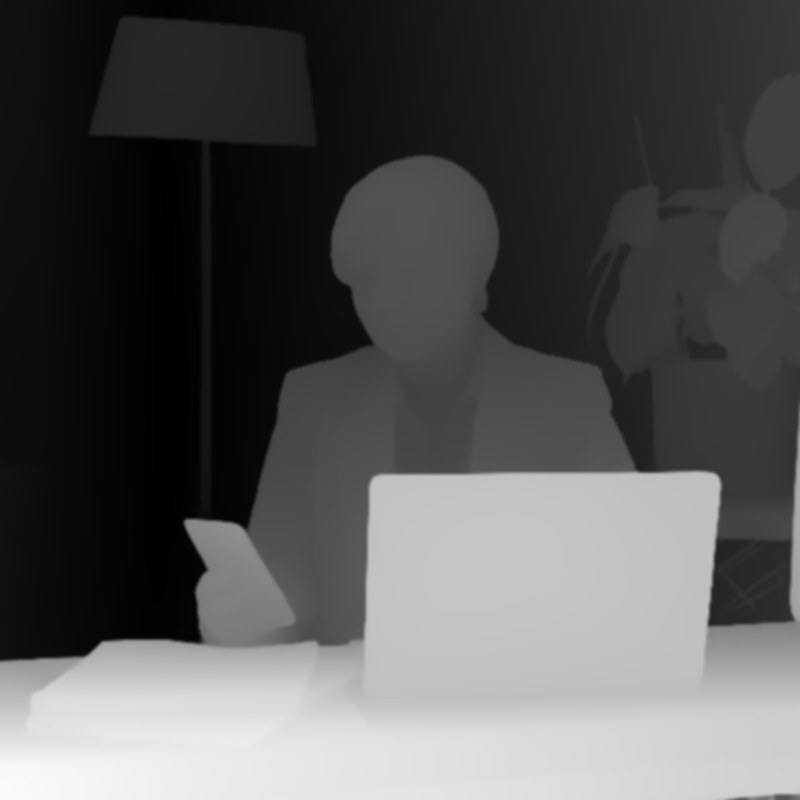
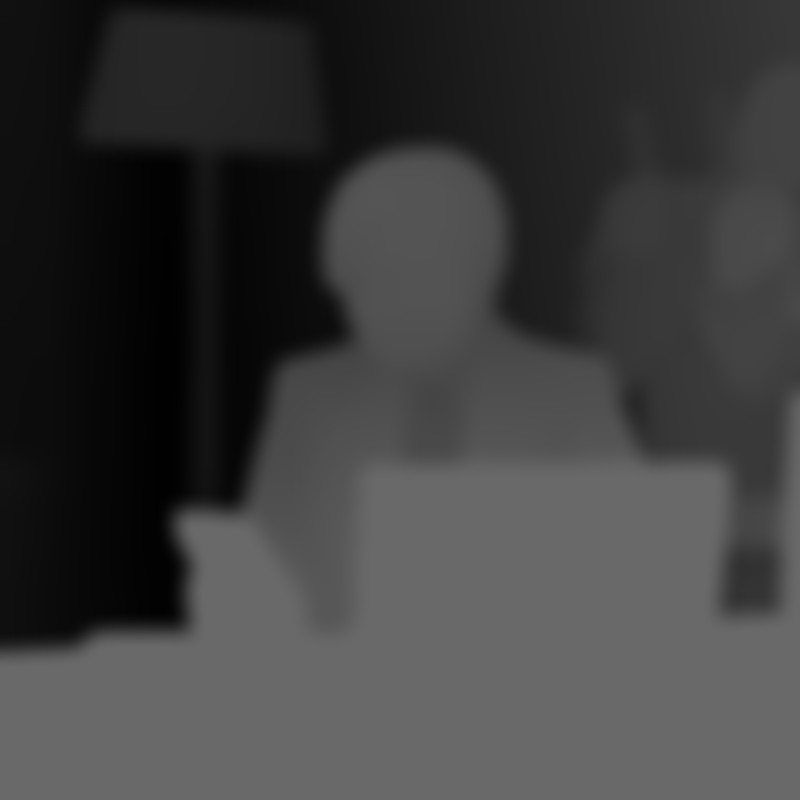
Мой путь, 3D-фото: без растяжений на лице и ноутбуке — Людмила неподвижна, смещается фон

diff --git a/story3d.js b/story3d.js
@@ -129,7 +129,7 @@ function depthPhoto(frame, opts) {
     const t = now / 1000;
     const ax = Math.sin(t * 0.33) * 0.7, ay = Math.sin(t * 0.47 + 1.3) * 0.45;   // сам по себе — медленная «восьмёрка»
     cx += (mx * 0.8 + ax - cx) * 0.045; cy += (my * 0.6 + ay - cy) * 0.045;
-    const ox = -cx * 0.042, oy = cy * 0.028, z = 1.08 + Math.sin(t * 0.22) * 0.014;
+    const ox = -cx * 0.05, oy = cy * 0.032, z = 1.08 + Math.sin(t * 0.22) * 0.014;
     mat.uniforms.uOff.value.set(ox, oy);
     mat.uniforms.uZoom.value = z;
     if (opts.onMove) opts.onMove(ox, oy, z);
@@ -149,7 +149,7 @@ function depthPhoto(frame, opts) {
     r.setPixelRatio(Math.min(window.devicePixelRatio || 1, 1.5));
     r.outputColorSpace = THREE.LinearSRGBColorSpace;            // цвета фото — как есть, без пересчёта
     const ld = new THREE.TextureLoader();
-    Promise.all([ld.loadAsync(img.currentSrc || img.src), ld.loadAsync('img/story/now-depth.jpg')]).then(([ti, td]) => {
+    Promise.all([ld.loadAsync(img.currentSrc || img.src), ld.loadAsync('img/story/now-depth.jpg?v=2')]).then(([ti, td]) => {
       [ti, td].forEach(t => { t.colorSpace = THREE.NoColorSpace; t.minFilter = THREE.LinearFilter; t.generateMipmaps = false; });
       scene = new THREE.Scene(); cam = new THREE.OrthographicCamera(-1, 1, 1, -1, 0, 1);
       mat = new THREE.ShaderMaterial({
@@ -162,7 +162,8 @@ function depthPhoto(frame, opts) {
             float fa = uRes.x / uRes.y;
             vec2 s = (fa > 1.0 ? vec2(1.0, 1.0 / fa) : vec2(fa, 1.0)) / uZoom;   // как object-fit: cover для квадратного фото
             vec2 base = (1.0 - s) * uPos + vUv * s, uv = base;
-            for (int i = 0; i < 3; i++) { float d = texture2D(uDep, uv).r; uv = base + uOff * (d - 0.42); }
+            float d = texture2D(uDep, base).r;
+            uv = base + uOff * (d - 0.37);   // Людмила и ноутбук (глубина ~0.37) стоят на месте — смещается фон за ними
             gl_FragColor = texture2D(uImg, clamp(uv, 0.001, 0.999));
           }`,
       });
@@ -361,7 +362,7 @@ async function init() {
   const nowFrame = q('.story__now-frame'), ghostNowEl = q('.story__ghost--now');
   if (!stacked) gsap.set(ghostNowEl, { yPercent: -50 });           // центр слова — в точке над растением
   const depth = depthPhoto(nowFrame, { reduce, pos: stacked ? [0.6, 0.3] : [0.5, 0.36], onMove: stacked ? null : (ox, oy, z) => {
-    const W = nowFrame.clientWidth, k = (0.8 - 0.42) * z;
+    const W = nowFrame.clientWidth, k = (0.6 - 0.37) * z;
     ghostNowEl.style.setProperty('--fx', (-ox * k * W * 0.35).toFixed(1) + 'px');  // вбок — чуть-чуть, чтобы край держал линию
     ghostNowEl.style.setProperty('--fy', (oy * k * W).toFixed(1) + 'px');
   } });

diff --git a/index.html b/index.html
@@ -325,6 +325,6 @@
 <script src="https://cdnjs.cloudflare.com/ajax/libs/gsap/3.12.5/ScrollTrigger.min.js"></script>
 <script src="https://unpkg.com/lenis@1.1.13/dist/lenis.min.js"></script>
 <script src="main.js?v=53"></script>
-<script type="module" src="story3d.js?v=39"></script>
+<script type="module" src="story3d.js?v=40"></script>
 </body>
 </html>
